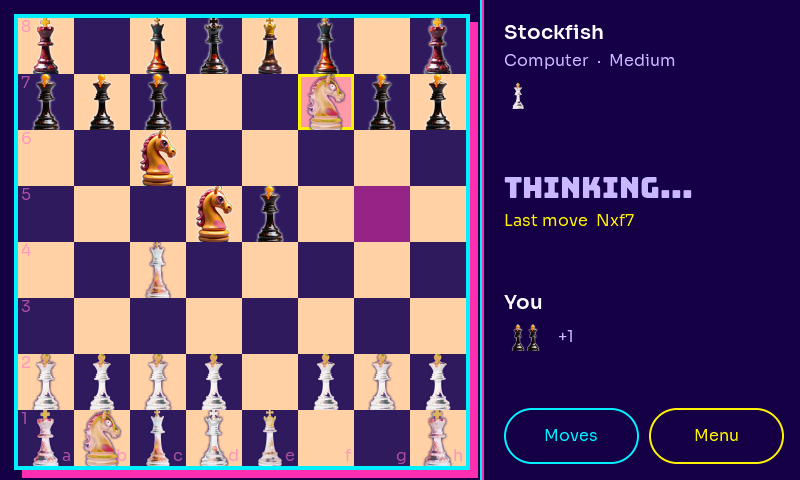
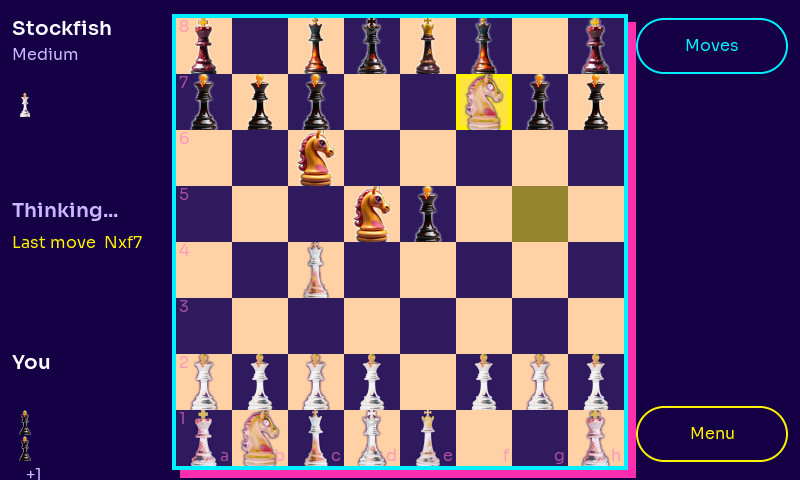
firmware 0.10.1: centered board with thin rails, move slide + brighter last-move, your pieces always light, who-goes-first, single Play button until search/quick match

diff --git a/firmware/main/ui_game.c b/firmware/main/ui_game.c
@@ -15,9 +15,10 @@
 
 #define SQ 56
 #define BOARD (8 * SQ)        /* 448: leaves room for the cyan frame and pink offset shadow, like the website */
-#define BOARD_X 18
+#define BOARD_X ((800 - BOARD) / 2)   /* board centered, thin rails either side */
 #define BOARD_Y 18
-#define PANEL_W 320
+#define PANEL_W 320          /* moves drawer width */
+#define RAIL_W 152
 #define PAD 16
 
 typedef struct {
@@ -120,18 +121,20 @@ static void redraw_board(ui_t *u)
         if (check && idx == king) {
             lv_obj_set_style_bg_color(t, EG_MAGENTA, 0);
             lv_obj_set_style_bg_opa(t, LV_OPA_60, 0);
-        } else if (idx == lf || idx == lt) {
-            lv_obj_set_style_bg_color(t, EG_PINK, 0);
-            lv_obj_set_style_bg_opa(t, dark ? EG_LASTMOVE_ALPHA_DARK : EG_LASTMOVE_ALPHA_LIGHT, 0);
+        } else if (idx == lf || idx == lt) {          /* last move: both squares clearly lit */
+            lv_obj_set_style_bg_color(t, EG_YELLOW, 0);
+            lv_obj_set_style_bg_opa(t, dark ? LV_OPA_50 : LV_OPA_60, 0);
         } else {
             lv_obj_set_style_bg_opa(t, LV_OPA_TRANSP, 0);
         }
         /* destination gets a yellow ring (website: --lastmove-ring) */
-        lv_obj_set_style_border_width(t, (idx == lt && !(check && idx == king)) ? 3 : 0, 0);
+        lv_obj_set_style_border_width(t, (idx == lt && !(check && idx == king)) ? 4 : 0, 0);
         lv_obj_set_style_border_color(t, EG_LASTMOVE_RING, 0);
 
         char c = u->g.board[idx];
-        const void *src = c ? eg_piece_src(isupper((unsigned char)c) ? 'w' : 'b', (char)tolower((unsigned char)c)) : NULL;
+        /* your pieces always use the light art, theirs the dark art, whatever color you actually play */
+        bool mine = c && (isupper((unsigned char)c) != 0) == u->g.you_white;
+        const void *src = c ? eg_piece_src(mine ? 'w' : 'b', (char)tolower((unsigned char)c)) : NULL;
         if (src) {
             lv_image_set_src(u->piece[cell], src);
             lv_obj_clear_flag(u->piece[cell], LV_OBJ_FLAG_HIDDEN);
@@ -140,6 +143,31 @@ static void redraw_board(ui_t *u)
         }
     }
     show_targets(u);
+}
+
+/* Slide the piece that just moved from its old square, so the opponent's move is easy to follow. */
+static void anim_tx(void *o, int32_t v) { lv_obj_set_style_translate_x(o, v, 0); }
+static void anim_ty(void *o, int32_t v) { lv_obj_set_style_translate_y(o, v, 0); }
+
+static void animate_last_move(ui_t *u)
+{
+    int f = eg_sq_index(u->g.last_from), t = eg_sq_index(u->g.last_to);
+    if (f < 0 || t < 0) return;
+    int cf = cell_of(u, f), ct = cell_of(u, t);
+    lv_obj_t *img = u->piece[ct];
+    int dx = (cf % 8 - ct % 8) * SQ, dy = (cf / 8 - ct / 8) * SQ;
+    lv_obj_move_foreground(u->cells[ct]);            /* draw above neighbouring squares while sliding */
+    lv_anim_t a;
+    lv_anim_init(&a);
+    lv_anim_set_var(&a, img);
+    lv_anim_set_duration(&a, 380);
+    lv_anim_set_path_cb(&a, lv_anim_path_ease_out);
+    lv_anim_set_exec_cb(&a, anim_tx);
+    lv_anim_set_values(&a, dx, 0);
+    lv_anim_start(&a);
+    lv_anim_set_exec_cb(&a, anim_ty);
+    lv_anim_set_values(&a, dy, 0);
+    lv_anim_start(&a);
 }
 
 /* ---------- panel ---------- */
@@ -171,25 +199,28 @@ static int missing(const eg_game_t *g, char color, int out[5])
 static void draw_caps(lv_obj_t *row, const int taken[5], char taken_color, int lead)
 {
     lv_obj_clean(row);
-    int x = 0;
+    int x = 0, y = 0, w = lv_obj_get_width(row);
     for (int k = 0; k < 5; k++) {
         for (int n = 0; n < taken[k]; n++) {
             const void *src = eg_piece_src(taken_color, CAP_ORDER[k]);
             if (!src) continue;
+            if (x > w - 22) { x = 0; y += 26; }      /* wrap onto a second line in the narrow rail */
             lv_obj_t *im = lv_image_create(row);
             lv_image_set_src(im, src);
             lv_image_set_pivot(im, 0, 0);
-            lv_image_set_scale(im, 256 * 26 / EG_PIECE_PX);
-            lv_obj_set_pos(im, x, 0);
-            x += 15;
+            lv_image_set_scale(im, 256 * 24 / EG_PIECE_PX);
+            lv_obj_set_pos(im, x, y);
+            x += 13;
         }
-        if (taken[k]) x += 6;
+        if (taken[k]) x += 5;
     }
     if (lead > 0) {
         lv_obj_t *l = mk_label(row, &eg_sora_16, EG_FG_HAZE, "");
         lv_label_set_text_fmt(l, "+%d", lead);
-        lv_obj_set_pos(l, x + 18, 4);
+        if (x > w - 40) { x = 0; y += 26; }
+        lv_obj_set_pos(l, x + 14, y + 4);
     }
+    lv_obj_set_height(row, y + 30);
 }
 
 static void rebuild_moves(ui_t *u)
@@ -245,16 +276,16 @@ static void set_status(ui_t *u)
 static void redraw_panel(ui_t *u)
 {
     lv_label_set_text(u->opp_name, u->g.opponent[0] ? u->g.opponent : "Opponent");
-    if (u->g.opp_ai) lv_label_set_text_fmt(u->opp_sub, "Computer  ·  %s", eg_difficulty_label(u->g.opp_difficulty[0] ? u->g.opp_difficulty : "intermediate"));
-    else lv_label_set_text(u->opp_sub, u->g.you_white ? "Playing black" : "Playing white");
+    if (u->g.opp_ai) lv_label_set_text(u->opp_sub, eg_difficulty_label(u->g.opp_difficulty[0] ? u->g.opp_difficulty : "intermediate"));
+    else lv_label_set_text(u->opp_sub, "");
     lv_label_set_text(u->you_name, "You");
 
     char you = u->g.you_white ? 'w' : 'b', opp = u->g.you_white ? 'b' : 'w';
     int lost_you[5], lost_opp[5];
     int v_you_lost = missing(&u->g, you, lost_you);
     int v_opp_lost = missing(&u->g, opp, lost_opp);
-    draw_caps(u->you_caps, lost_opp, opp, v_opp_lost - v_you_lost);   /* what you took */
-    draw_caps(u->opp_caps, lost_you, you, v_you_lost - v_opp_lost);   /* what they took */
+    draw_caps(u->you_caps, lost_opp, 'b', v_opp_lost - v_you_lost);   /* what you took: their (dark) pieces */
+    draw_caps(u->opp_caps, lost_you, 'w', v_you_lost - v_opp_lost);   /* what they took: your (light) pieces */
 
     set_status(u);
     if (u->g.moves_n) lv_label_set_text_fmt(u->last, "Last move  %s", u->g.moves[u->g.moves_n - 1]);
@@ -322,7 +353,7 @@ static void open_promotion(lv_obj_t *screen, ui_t *u)
     lv_obj_t *title = mk_label(u->promo, &eg_bungee_28, EG_YELLOW, "PROMOTE TO");
     lv_obj_align(title, LV_ALIGN_TOP_MID, 0, 80);
     static const char kinds[4] = {'q', 'r', 'b', 'n'};
-    char col = u->g.you_white ? 'w' : 'b';
+    char col = 'w';                           /* your pieces use the light art */
     for (int i = 0; i < 4; i++) {
         lv_obj_t *b = lv_obj_create(u->promo);
         lv_obj_set_size(b, 96, 96);
@@ -407,7 +438,7 @@ static void menu_cb(lv_event_t *e)
     plain(u->menu);
     int n = u->g.in_progress ? 3 : 2;
     lv_obj_set_size(u->menu, 288, 12 + n * 62);
-    lv_obj_align(u->menu, LV_ALIGN_BOTTOM_RIGHT, -PAD, -84);
+    lv_obj_align(u->menu, LV_ALIGN_BOTTOM_RIGHT, -12, -82);
     lv_obj_set_style_bg_color(u->menu, EG_SURFACE, 0);
     lv_obj_set_style_bg_opa(u->menu, LV_OPA_COVER, 0);
     lv_obj_set_style_border_width(u->menu, 3, 0);
@@ -447,7 +478,7 @@ static void drawer_close_cb(lv_event_t *e)
     lv_anim_init(&a);
     lv_anim_set_var(&a, u->drawer);
     lv_anim_set_exec_cb(&a, drawer_x);
-    lv_anim_set_values(&a, 480, 800);
+    lv_anim_set_values(&a, 800 - PANEL_W, 800);
     lv_anim_set_duration(&a, 180);
     lv_anim_set_user_data(&a, u);
     lv_anim_set_completed_cb(&a, drawer_close_done);
@@ -493,7 +524,7 @@ static void moves_cb(lv_event_t *e)
     lv_anim_init(&a);
     lv_anim_set_var(&a, u->drawer);
     lv_anim_set_exec_cb(&a, drawer_x);
-    lv_anim_set_values(&a, 800, 480);
+    lv_anim_set_values(&a, 800, 800 - PANEL_W);
     lv_anim_set_duration(&a, 200);
     lv_anim_set_path_cb(&a, lv_anim_path_ease_out);
     lv_anim_start(&a);
@@ -596,62 +627,49 @@ lv_obj_t *eg_game_create(lv_obj_t *parent, const eg_game_cb_t *cb)
         }
     }
 
-    /* panel */
-    lv_obj_t *panel = lv_obj_create(scr);
-    plain(panel);
-    lv_obj_set_size(panel, PANEL_W, 480);
-    lv_obj_set_pos(panel, 480, 0);
-    lv_obj_set_style_bg_color(panel, EG_BG_NIGHT, 0);
-    lv_obj_set_style_bg_opa(panel, LV_OPA_COVER, 0);
-    lv_obj_t *edge = lv_obj_create(panel);          /* cyan edge, pink offset (the website's board frame) */
-    plain(edge);
-    lv_obj_set_size(edge, 2, 480);
-    lv_obj_set_style_bg_color(edge, EG_BOARD_EDGE, 0);
-    lv_obj_set_style_bg_opa(edge, LV_OPA_COVER, 0);
-    lv_obj_t *edge2 = lv_obj_create(panel);
-    plain(edge2);
-    lv_obj_set_size(edge2, 2, 480);
-    lv_obj_set_pos(edge2, 2, 0);
-    lv_obj_set_style_bg_color(edge2, EG_BOARD_SHADOW, 0);
-    lv_obj_set_style_bg_opa(edge2, LV_OPA_COVER, 0);
-
-    int cx = 4 + PAD + 4;                     /* content x inside the panel */
-    int cw = PANEL_W - cx - PAD;              /* content width */
-
-    /* opponent strip */
-    u->opp_name = mk_label(panel, &eg_sora_20_bold, EG_FG, "");
+    /* left rail: opponent at the top, status in the middle, you at the bottom */
+    lv_obj_t *left = lv_obj_create(scr);
+    plain(left);
+    lv_obj_set_size(left, RAIL_W, 480);
+    lv_obj_set_pos(left, 12, 0);
+    u->opp_name = mk_label(left, &eg_sora_20_bold, EG_FG, "");
     lv_label_set_long_mode(u->opp_name, LV_LABEL_LONG_DOT);
-    lv_obj_set_width(u->opp_name, cw);
-    lv_obj_set_pos(u->opp_name, cx, 22);
-    u->opp_sub = mk_label(panel, &eg_sora_16, EG_FG_HAZE, "");
-    lv_obj_set_pos(u->opp_sub, cx, 52);
-    u->opp_caps = lv_obj_create(panel);
+    lv_obj_set_width(u->opp_name, RAIL_W);
+    lv_obj_set_pos(u->opp_name, 0, 18);
+    u->opp_sub = mk_label(left, &eg_sora_16, EG_FG_HAZE, "");
+    lv_label_set_long_mode(u->opp_sub, LV_LABEL_LONG_WRAP);
+    lv_obj_set_width(u->opp_sub, RAIL_W);
+    lv_obj_set_pos(u->opp_sub, 0, 46);
+    u->opp_caps = lv_obj_create(left);
     plain(u->opp_caps);
-    lv_obj_set_size(u->opp_caps, cw, 30);
-    lv_obj_set_pos(u->opp_caps, cx, 82);
+    lv_obj_set_size(u->opp_caps, RAIL_W, 30);
+    lv_obj_set_pos(u->opp_caps, 0, 92);
 
-    /* status */
-    u->status = mk_label(panel, &eg_bungee_28, EG_FG_HAZE, "");
-    lv_obj_set_pos(u->status, cx, 170);
-    u->last = mk_label(panel, &eg_sora_16, EG_YELLOW, "");
-    lv_obj_set_pos(u->last, cx, 212);
+    u->status = mk_label(left, &eg_sora_20_bold, EG_FG_HAZE, "");
+    lv_label_set_long_mode(u->status, LV_LABEL_LONG_WRAP);
+    lv_obj_set_width(u->status, RAIL_W);
+    lv_obj_set_pos(u->status, 0, 200);
+    u->last = mk_label(left, &eg_sora_16, EG_YELLOW, "");
+    lv_label_set_long_mode(u->last, LV_LABEL_LONG_WRAP);
+    lv_obj_set_width(u->last, RAIL_W);
+    lv_obj_set_pos(u->last, 0, 234);
 
-    /* your strip */
-    u->you_name = mk_label(panel, &eg_sora_20_bold, EG_FG, "");
-    lv_obj_set_pos(u->you_name, cx, 292);
-    u->you_caps = lv_obj_create(panel);
+    u->you_name = mk_label(left, &eg_sora_20_bold, EG_FG, "");
+    lv_obj_set_pos(u->you_name, 0, 352);
+    u->you_caps = lv_obj_create(left);
     plain(u->you_caps);
-    lv_obj_set_size(u->you_caps, cw, 30);
-    lv_obj_set_pos(u->you_caps, cx, 324);
+    lv_obj_set_size(u->you_caps, RAIL_W, 30);
+    lv_obj_set_pos(u->you_caps, 0, 384);
 
-    /* buttons */
-    lv_obj_t *row = lv_obj_create(panel);
-    plain(row);
-    lv_obj_set_size(row, cw, 56);
-    lv_obj_set_pos(row, cx, 408);
-    int bw = (cw - 10) / 2;
-    u->btn_moves = mk_button(row, "Moves", EG_CYAN, 0, bw);
-    u->btn_menu = mk_button(row, "Menu", EG_YELLOW, bw + 10, bw);
+    /* right rail: Moves and Menu */
+    lv_obj_t *right = lv_obj_create(scr);
+    plain(right);
+    lv_obj_set_size(right, RAIL_W, 480);
+    lv_obj_set_pos(right, 800 - 12 - RAIL_W, 0);
+    u->btn_moves = mk_button(right, "Moves", EG_CYAN, 0, RAIL_W);
+    lv_obj_set_y(u->btn_moves, 18);
+    u->btn_menu = mk_button(right, "Menu", EG_YELLOW, 0, RAIL_W);
+    lv_obj_set_y(u->btn_menu, 406);
     lv_obj_add_event_cb(u->btn_moves, moves_cb, LV_EVENT_CLICKED, scr);
     lv_obj_add_event_cb(u->btn_menu, menu_cb, LV_EVENT_CLICKED, scr);
 
@@ -662,6 +680,9 @@ void eg_game_set(lv_obj_t *screen, const eg_game_t *g)
 {
     ui_t *u = U(screen);
     bool new_game = strcmp(u->g.id, g->id) != 0;
+    /* the opponent just moved if a new last move arrived and it's now our turn */
+    bool opp_moved = !new_game && g->your_turn && g->last_to[0] &&
+                     (strcmp(g->last_from, u->g.last_from) != 0 || strcmp(g->last_to, u->g.last_to) != 0 || g->move_count != u->g.move_count);
     u->g = *g;
     u->flipped = !g->you_white;              /* your side is always at the bottom */
     u->selected = -1;
@@ -670,4 +691,5 @@ void eg_game_set(lv_obj_t *screen, const eg_game_t *g)
     if (new_game) { close_overlay(&u->menu); close_overlay(&u->drawer); u->drawer_list = NULL; }
     redraw_board(u);
     redraw_panel(u);
+    if (opp_moved) animate_last_move(u);
 }

diff --git a/firmware/main/ui_screens.c b/firmware/main/ui_screens.c
@@ -633,8 +633,8 @@ lv_obj_t *eg_home_create(lv_obj_t *parent, const eg_home_cb_t *cb)
     h->cb = *cb;
     lv_obj_set_user_data(s, h);
 
-    lv_obj_add_event_cb(big_button(s, "Play the computer", EG_PINK, lv_color_white(), 24, 24, 300, 178), home_play_cb, LV_EVENT_CLICKED, h);
-    lv_obj_add_event_cb(big_button(s, "Challenge a friend", EG_CYAN, EG_BG_VOID, 24, 216, 300, 178), home_chal_cb, LV_EVENT_CLICKED, h);
+    lv_obj_add_event_cb(big_button(s, "Play the computer", EG_PINK, lv_color_white(), 24, 24, 300, 370), home_play_cb, LV_EVENT_CLICKED, h);
+    (void)home_chal_cb;   /* Quick match and Challenge a player (username search) land once the server supports them */
 
     lv_obj_t *gt = label(s, &eg_sora_20_bold, EG_YELLOW, "Your games");
     lv_obj_set_pos(gt, 348, 24);
@@ -683,9 +683,7 @@ void eg_home_set(lv_obj_t *screen, const eg_home_t *d)
         lv_obj_set_width(n, 240);
         lv_obj_align(n, LV_ALIGN_TOP_LEFT, 0, 0);
         lv_obj_t *sub = label(row, &eg_sora_16, EG_FG_HAZE, "");
-        const char *col = g->your_color == 'b' ? "You're black" : "You're white";
-        if (g->opponent_ai) lv_label_set_text_fmt(sub, "%s  ·  %s", eg_difficulty_label(g->difficulty), col);
-        else lv_label_set_text(sub, col);
+        lv_label_set_text(sub, g->opponent_ai ? eg_difficulty_label(g->difficulty) : "");
         lv_obj_align(sub, LV_ALIGN_BOTTOM_LEFT, 0, 0);
         lv_obj_t *turn = label(row, &eg_sora_16, g->your_turn ? EG_PINK : EG_FG_MIST, g->your_turn ? "Your turn" : "Their turn");
         lv_obj_align(turn, LV_ALIGN_RIGHT_MID, 0, 0);
@@ -705,7 +703,7 @@ typedef struct {
 static const char *DIFF_API[4] = {"beginner", "intermediate", "advanced", "expert"};
 static const char *DIFF_UI[4] = {"Easy", "Medium", "Hard", "Expert"};
 static const char *COL_API[3] = {"white", "black", "random"};
-static const char *COL_UI[3] = {"White", "Black", "Random"};
+static const char *COL_UI[3] = {"Me", "Computer", "Random"};   /* who moves first; maps to white / black / random */
 
 static void seg_paint(lv_obj_t **btns, int n, int sel)
 {
@@ -765,7 +763,7 @@ lv_obj_t *eg_ai_setup_create(lv_obj_t *parent, void (*on_start)(const char *, co
         a->diff[i] = seg_button(s, DIFF_UI[i], 40 + i * 182, 128, 170);
         lv_obj_add_event_cb(a->diff[i], ai_diff_cb, LV_EVENT_CLICKED, (void *)(intptr_t)i);
     }
-    lv_obj_set_pos(label(s, &eg_sora_20_bold, EG_YELLOW, "You play"), 40, 222);
+    lv_obj_set_pos(label(s, &eg_sora_20_bold, EG_YELLOW, "Who goes first"), 40, 222);
     for (int i = 0; i < 3; i++) {
         a->col[i] = seg_button(s, COL_UI[i], 40 + i * 242, 254, 230);
         lv_obj_add_event_cb(a->col[i], ai_col_cb, LV_EVENT_CLICKED, (void *)(intptr_t)i);
